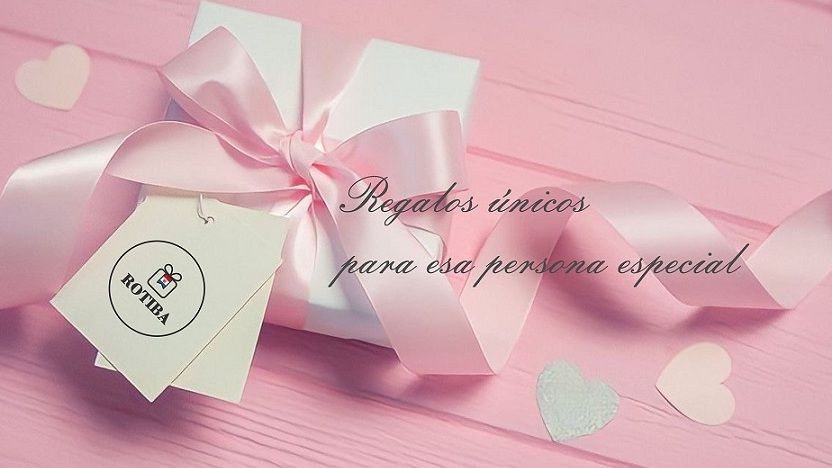
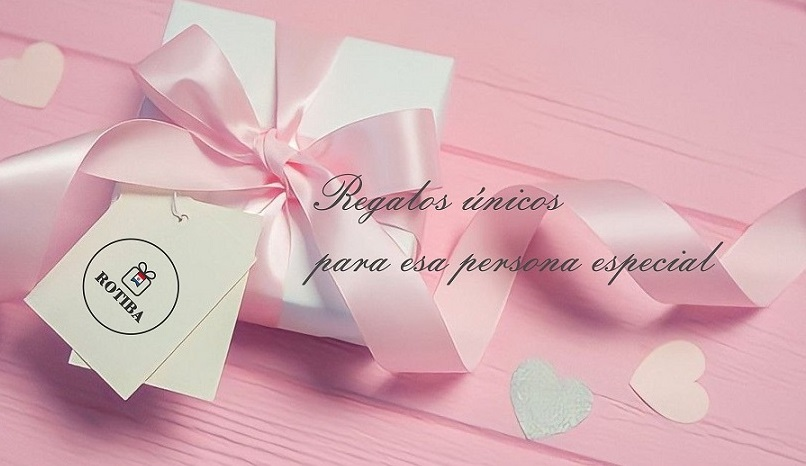
editando estilos

diff --git a/css/estilos.css b/css/estilos.css
@@ -1,0 +1,73 @@
+* {
+    margin: 0;
+    padding: 0;
+    -moz-box-sizing: border-box;
+    -webkit-box-sizing: border-box;
+    box-sizing: border-box;
+}
+
+body {
+    font-family: 'Prompt', sans-serif, Arial, sans-serif;
+    font-size: 16px;
+}
+
+.contenedor {
+    width: 90%;
+    max-width: 1000px;
+    margin: auto;
+    overflow: hidden;
+}
+
+/* -------------- HEADER -------------- */
+header {
+    width: 100%;
+    /*background-color: #ffffcb;*/
+    background-image: url("../img/fondo.png");
+    background-color: #e1b3bd;
+    background-size: cover;
+    background-attachment: fixed;
+    background-position: center 0;
+}
+
+header .contenedor {
+    position: relative;
+    height: 700px;
+}
+
+header .menu {
+    width: 100%;
+    text-align: right;
+}
+
+header .menu a {
+    color: #e1b3bd;
+    font-size: 20px;
+    font-weight: 300;
+    display: inline-block;
+    margin: 40px 20px;
+    text-decoration: none;
+    position: relative;
+}
+
+header .menu a:hover {
+    text-decoration: underline;
+}
+
+header .textos {
+    width: 100%;
+    color: #e1b3bd;
+    position: absolute;
+    top: 50%;
+    margin-top: -52px;
+}
+
+header .textos .nombre {
+    font-size: 50px;
+    font-weight: 600;
+}
+
+header .textos h3 {
+    font-weight: 300;
+    font-size: 25px;
+    font-style: italic;
+}
